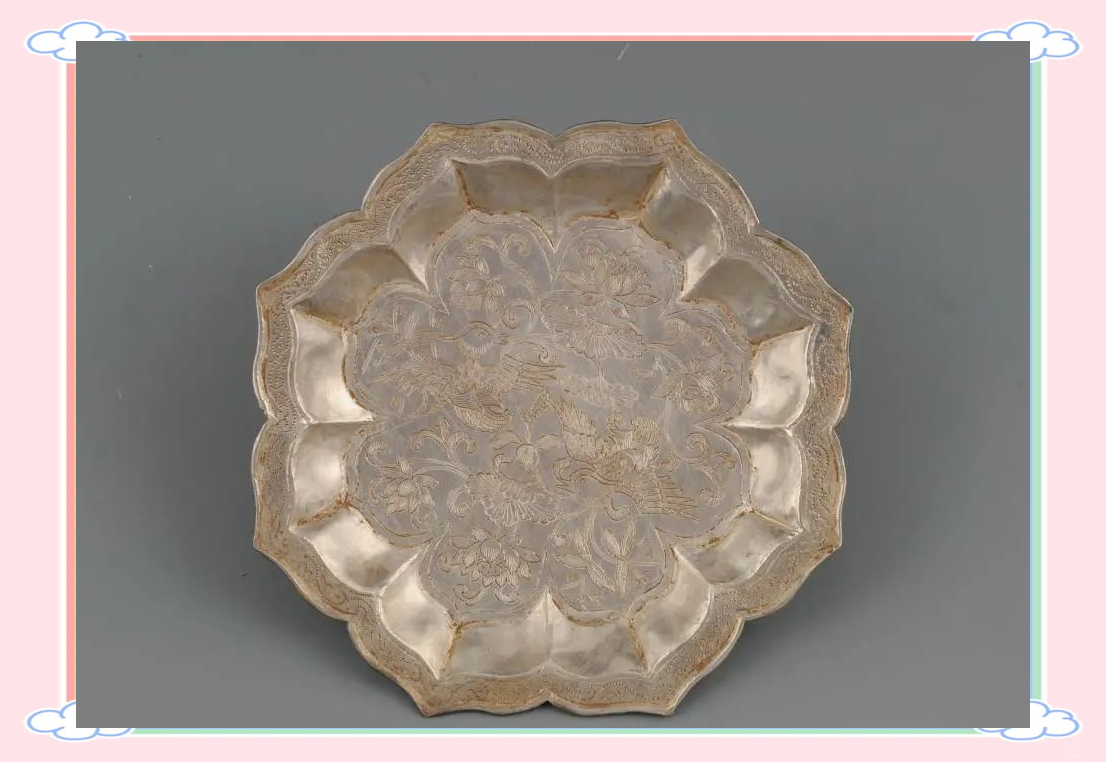
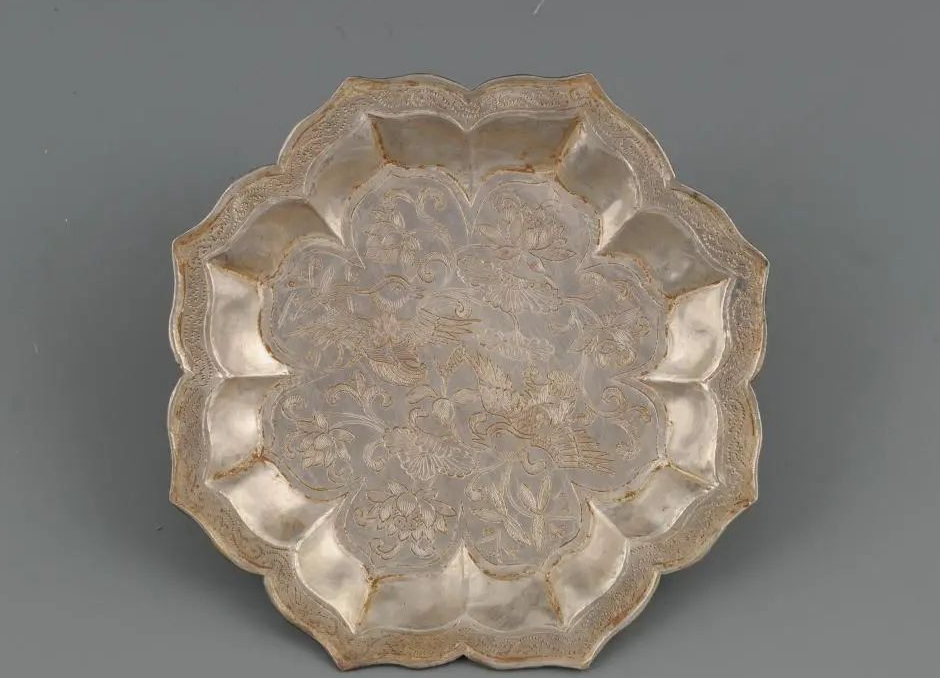
revise csv

diff --git a/src/components/catalog/OverviewCard.tsx b/src/components/catalog/OverviewCard.tsx
@@ -15,15 +15,17 @@ export function OverviewCard({
   href: string;
   meta?: string;
   ctaLabel: string;
-  variant?: "default" | "conceptIndex" | "timelinePanel";
+  variant?: "default" | "conceptIndex" | "timelineIndex" | "timelinePanel";
 }) {
+  const isTimelineCard = variant === "timelineIndex" || variant === "timelinePanel";
+
   return (
     <a
       href={href}
       className={
         variant === "conceptIndex"
           ? `${styles.overviewCard} ${styles.conceptOverviewCard}`
-          : variant === "timelinePanel"
+          : isTimelineCard
             ? `${styles.overviewCard} ${styles.timelineOverviewCard}`
             : styles.overviewCard
       }
@@ -32,8 +34,10 @@ export function OverviewCard({
         className={
           variant === "conceptIndex"
             ? `${styles.overviewImage} ${styles.conceptOverviewImage}`
-            : variant === "timelinePanel"
-              ? `${styles.overviewImage} ${styles.timelineOverviewImage}`
+            : variant === "timelineIndex"
+              ? `${styles.overviewImage} ${styles.timelineOverviewImage} ${styles.timelineOverviewIndexImage}`
+              : variant === "timelinePanel"
+                ? `${styles.overviewImage} ${styles.timelineOverviewImage}`
               : styles.overviewImage
         }
       >

diff --git a/src/data/catalog.test.ts b/src/data/catalog.test.ts
@@ -91,6 +91,21 @@ test("timeline order follows han tang song ming qing without leftover yuan entry
   assert.equal(content.objects.some((item) => item.eraSlug === "yuan"), false);
 });
 
+test("timeline index cards keep dedicated home images for each dynasty", () => {
+  const content = getCatalogContent("zh-Hans");
+
+  assert.deepEqual(
+    content.timeline.map((item) => item.homeImage),
+    [
+      "/images/timeline/han/home.png",
+      "/images/timeline/tang/home.png",
+      "/images/timeline/song/home.png",
+      "/images/timeline/ming/home.png",
+      "/images/timeline/qing/home.png"
+    ]
+  );
+});
+
 test("detail lookup helpers return null for unknown slugs", () => {
   assert.equal(findConceptBySlug("zh-Hans", "missing"), null);
   assert.equal(findObjectBySlug("zh-Hans", "missing"), null);

diff --git a/src/components/catalog/CatalogIndexClient.tsx b/src/components/catalog/CatalogIndexClient.tsx
@@ -148,6 +148,7 @@ export function CatalogIndexClient({ kind }: { kind: IndexKind }) {
                           ? pageCopy.cta.hans
                           : pageCopy.cta.hant
                       }
+                      variant="timelineIndex"
                     />
                   ))
                 : null}

diff --git a/src/components/catalog/CatalogPage.module.css b/src/components/catalog/CatalogPage.module.css
@@ -138,6 +138,10 @@
   height: 100%;
 }
 
+.timelineOverviewIndexImage img {
+  object-position: top center;
+}
+
 .overviewMeta {
   color: var(--ink-soft);
   font-size: 12px;
